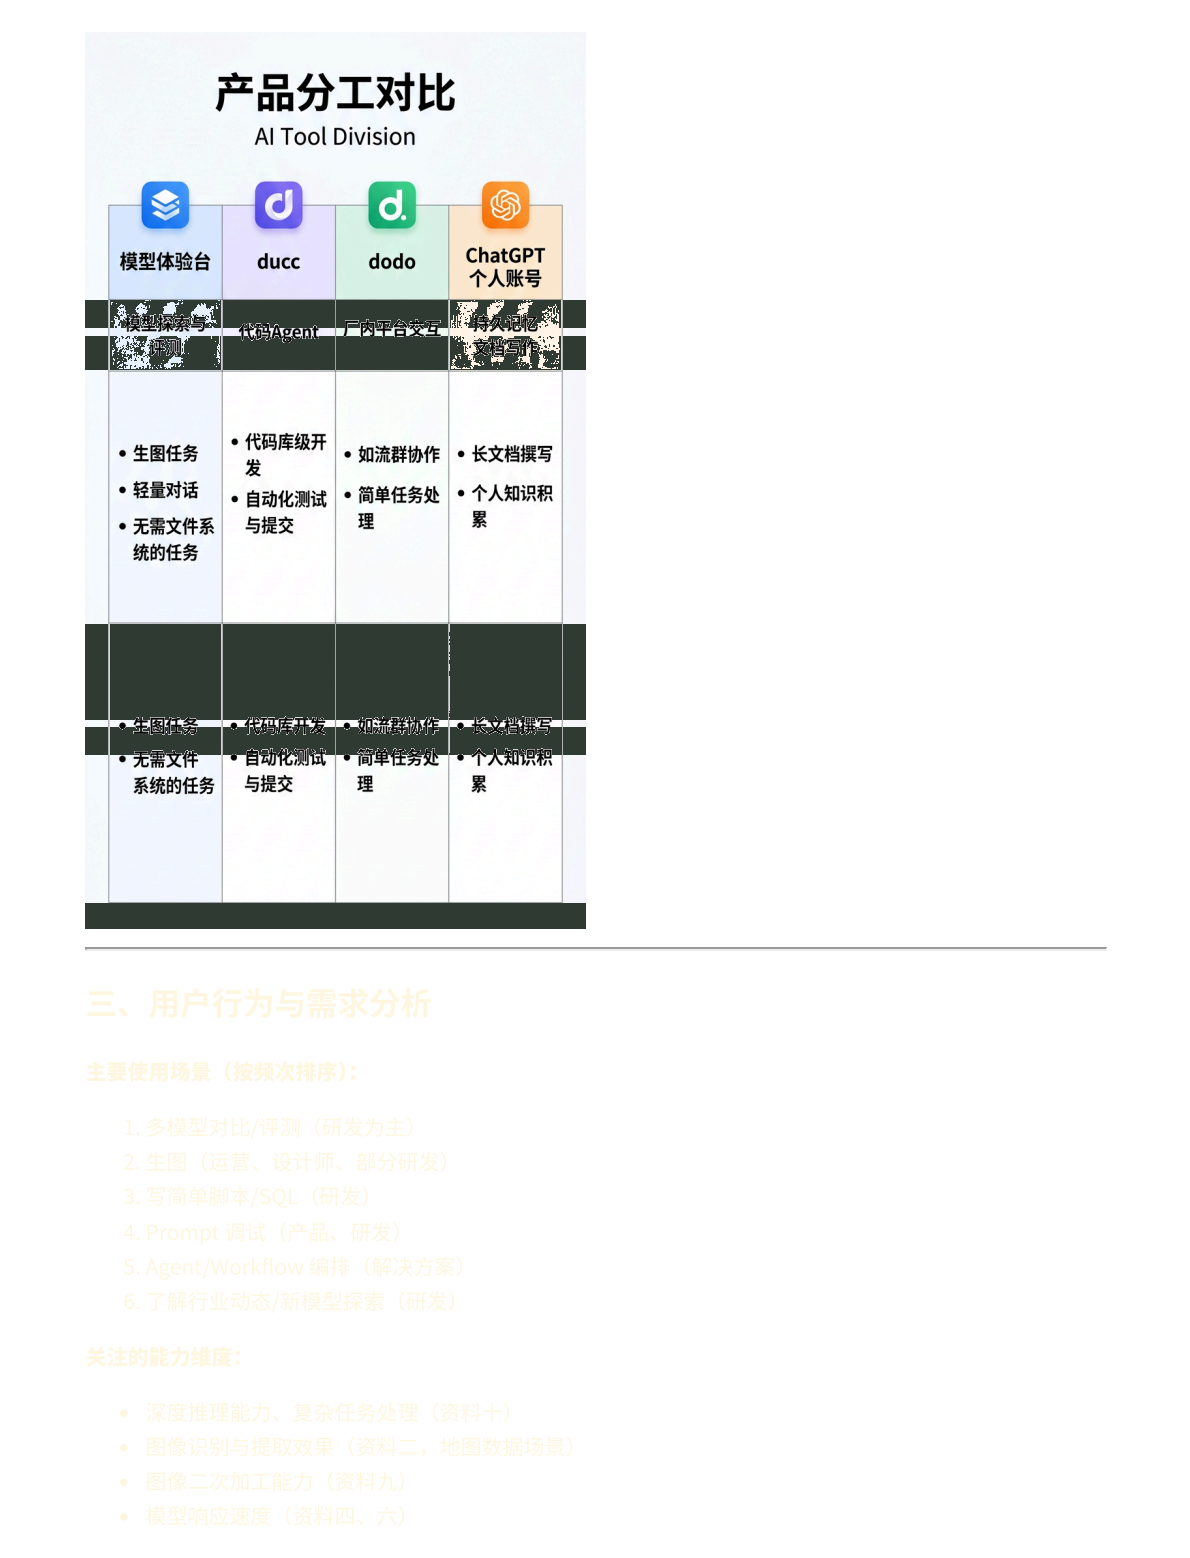
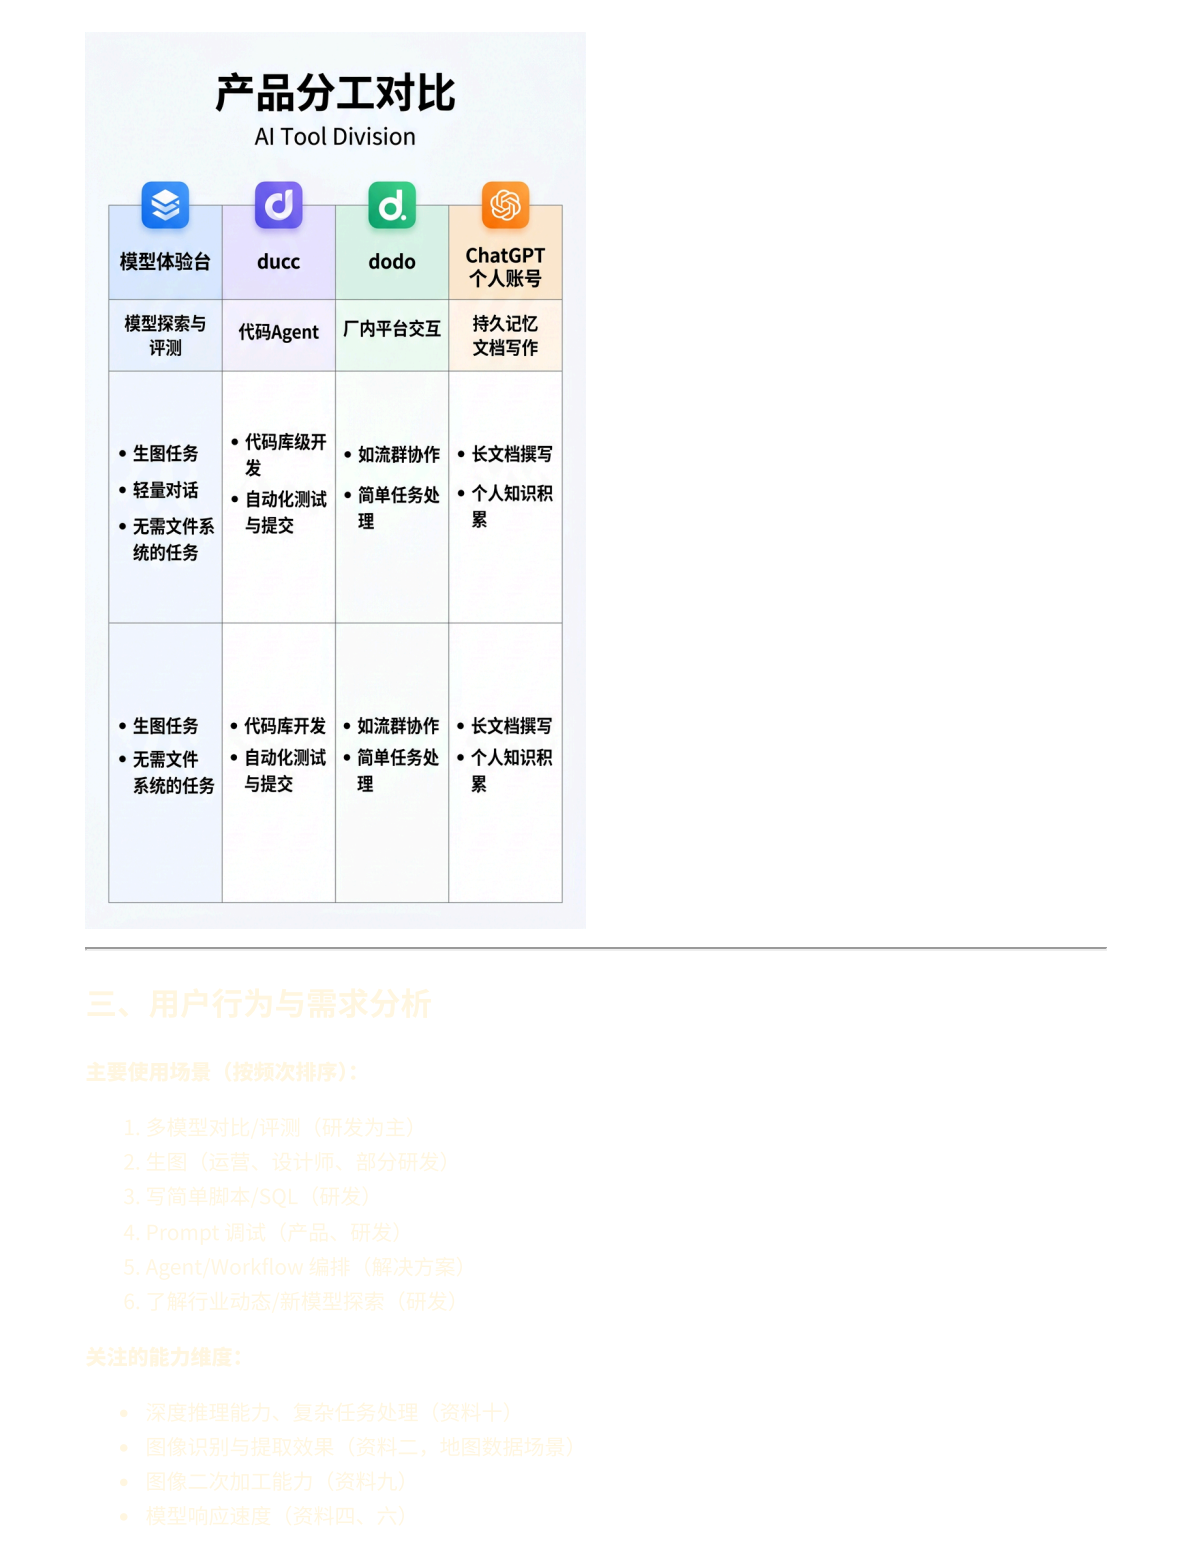
Restore interview image and clarify links

Changed region(s): [[0.0622, 0.4005, 0.4975, 0.4929], [0.0622, 0.5546, 0.4975, 0.6162], [0.0622, 0.1849, 0.4975, 0.2465]]

diff --git a/styles/portfolio.css b/styles/portfolio.css
@@ -1058,7 +1058,33 @@ button {
 .document-page.is-transparent .document-page-jump.is-labeled {
   color: #fff6e0;
   font-weight: 700;
+  border-radius: 2px;
+  box-shadow:
+    inset 0 -1px rgba(239, 180, 95, 0.78),
+    0 0 0 1px rgba(239, 180, 95, 0.14),
+    0 0 7px rgba(239, 180, 95, 0.12);
+  text-decoration: underline;
+  text-decoration-color: rgba(239, 180, 95, 0.72);
+  text-decoration-thickness: 1px;
+  text-underline-offset: 3px;
+  transition:
+    background-color 180ms ease,
+    box-shadow 180ms ease,
+    color 180ms ease,
+    text-decoration-color 180ms ease;
   animation-name: document-text-beacon-warm;
+}
+
+.document-page.is-transparent .document-page-link::after,
+.document-page.is-transparent .document-page-jump.is-labeled::after {
+  margin-left: 0.28em;
+  color: #efb45f;
+  content: "\203A";
+  font-size: 0.82em;
+  font-weight: 700;
+  line-height: 1;
+  opacity: 0.94;
+  transition: transform 180ms ease;
 }
 
 .document-page.is-transparent .document-page-jump.is-tinted,
@@ -1087,6 +1113,16 @@ button {
 .document-page.is-transparent .document-page-jump.is-labeled:hover {
   background: #4d594c;
   color: #fffaf0;
+  box-shadow:
+    inset 0 -2px rgba(239, 180, 95, 0.94),
+    0 0 0 1px rgba(239, 180, 95, 0.24),
+    0 0 9px rgba(239, 180, 95, 0.18);
+  text-decoration-color: #efb45f;
+}
+
+.document-page.is-transparent .document-page-link:hover::after,
+.document-page.is-transparent .document-page-jump.is-labeled:hover::after {
+  transform: translateX(2px);
 }
 
 .document-page.is-transparent .document-page-link:focus-visible,

diff --git a/rooms/living/index.html b/rooms/living/index.html
@@ -1,1 +1,1 @@
-<!doctype html><html lang="en"><head><meta charset="utf-8"><meta name="viewport" content="width=device-width,initial-scale=1"><meta name="theme-color" content="#f1f0eb"><title>Living Room — 杨昕乔 Portfolio</title><link rel="stylesheet" href="/styles/portfolio.css?v=33"></head><body><div id="app"></div><script type="module" src="/scripts/app.js?v=32"></script></body></html>
+<!doctype html><html lang="en"><head><meta charset="utf-8"><meta name="viewport" content="width=device-width,initial-scale=1"><meta name="theme-color" content="#f1f0eb"><title>Living Room — 杨昕乔 Portfolio</title><link rel="stylesheet" href="/styles/portfolio.css?v=34"></head><body><div id="app"></div><script type="module" src="/scripts/app.js?v=33"></script></body></html>

diff --git a/rooms/kitchen/index.html b/rooms/kitchen/index.html
@@ -1,1 +1,1 @@
-<!doctype html><html lang="en"><head><meta charset="utf-8"><meta name="viewport" content="width=device-width,initial-scale=1"><meta name="theme-color" content="#f1f0eb"><title>Kitchen — 杨昕乔 Portfolio</title><link rel="stylesheet" href="/styles/portfolio.css?v=33"></head><body><div id="app"></div><script type="module" src="/scripts/app.js?v=32"></script></body></html>
+<!doctype html><html lang="en"><head><meta charset="utf-8"><meta name="viewport" content="width=device-width,initial-scale=1"><meta name="theme-color" content="#f1f0eb"><title>Kitchen — 杨昕乔 Portfolio</title><link rel="stylesheet" href="/styles/portfolio.css?v=34"></head><body><div id="app"></div><script type="module" src="/scripts/app.js?v=33"></script></body></html>

diff --git a/scripts/app.js b/scripts/app.js
@@ -8,7 +8,7 @@ import {
   SHOW_HOTSPOTS,
   adjacentPages,
   roomFromPath,
-} from "/scripts/rooms-data.js?v=24";
+} from "/scripts/rooms-data.js?v=25";
 
 const FOCUS_TIMING = {
   expandStart: 80,
@@ -257,8 +257,9 @@ function getRoomObject(roomId, objectId) {
 }
 
 function renderedDocumentPage(documentEntry, pageNumber) {
-  const { basePath, extension } = documentEntry.renderedPages;
-  return `${basePath}/page-${String(pageNumber).padStart(2, "0")}.${extension}`;
+  const { basePath, extension, version } = documentEntry.renderedPages;
+  const cacheVersion = version ? `?v=${encodeURIComponent(version)}` : "";
+  return `${basePath}/page-${String(pageNumber).padStart(2, "0")}.${extension}${cacheVersion}`;
 }
 
 function renderDocumentText(documentEntry) {

diff --git a/rooms/garden/index.html b/rooms/garden/index.html
@@ -1,1 +1,1 @@
-<!doctype html><html lang="en"><head><meta charset="utf-8"><meta name="viewport" content="width=device-width,initial-scale=1"><meta name="theme-color" content="#f1f0eb"><title>Garden — 杨昕乔 Portfolio</title><link rel="stylesheet" href="/styles/portfolio.css?v=33"></head><body><div id="app"></div><script type="module" src="/scripts/app.js?v=32"></script></body></html>
+<!doctype html><html lang="en"><head><meta charset="utf-8"><meta name="viewport" content="width=device-width,initial-scale=1"><meta name="theme-color" content="#f1f0eb"><title>Garden — 杨昕乔 Portfolio</title><link rel="stylesheet" href="/styles/portfolio.css?v=34"></head><body><div id="app"></div><script type="module" src="/scripts/app.js?v=33"></script></body></html>

diff --git a/rooms/study/index.html b/rooms/study/index.html
@@ -1,1 +1,1 @@
-<!doctype html><html lang="en"><head><meta charset="utf-8"><meta name="viewport" content="width=device-width,initial-scale=1"><meta name="theme-color" content="#f1f0eb"><title>Study — 杨昕乔 Portfolio</title><link rel="stylesheet" href="/styles/portfolio.css?v=33"></head><body><div id="app"></div><script type="module" src="/scripts/app.js?v=32"></script></body></html>
+<!doctype html><html lang="en"><head><meta charset="utf-8"><meta name="viewport" content="width=device-width,initial-scale=1"><meta name="theme-color" content="#f1f0eb"><title>Study — 杨昕乔 Portfolio</title><link rel="stylesheet" href="/styles/portfolio.css?v=34"></head><body><div id="app"></div><script type="module" src="/scripts/app.js?v=33"></script></body></html>

diff --git a/index.html b/index.html
@@ -7,11 +7,11 @@
   <meta name="theme-color" content="#f1f0eb">
   <title>杨昕乔 — Portfolio 2026</title>
   <link rel="preload" as="image" href="/assets/rooms/home-overview-fresh-original.png" fetchpriority="high">
-  <link rel="stylesheet" href="/styles/portfolio.css?v=33">
+  <link rel="stylesheet" href="/styles/portfolio.css?v=34">
 </head>
 <body>
   <div id="app"></div>
   <noscript>This portfolio requires JavaScript for room navigation.</noscript>
-  <script type="module" src="/scripts/app.js?v=32"></script>
+  <script type="module" src="/scripts/app.js?v=33"></script>
 </body>
 </html>

diff --git a/scripts/rooms-data.js b/scripts/rooms-data.js
@@ -340,6 +340,7 @@ export const ROOMS = [
         renderedPages: {
           basePath: "/assets/works/study-interview-analysis/transparent-pages",
           extension: "webp",
+          version: "20260731-1",
           width: 1190,
           height: 1684,
           pageHeights: [1488, 1546, 1001, 1558, 1539, 1528, 1559, 957],
